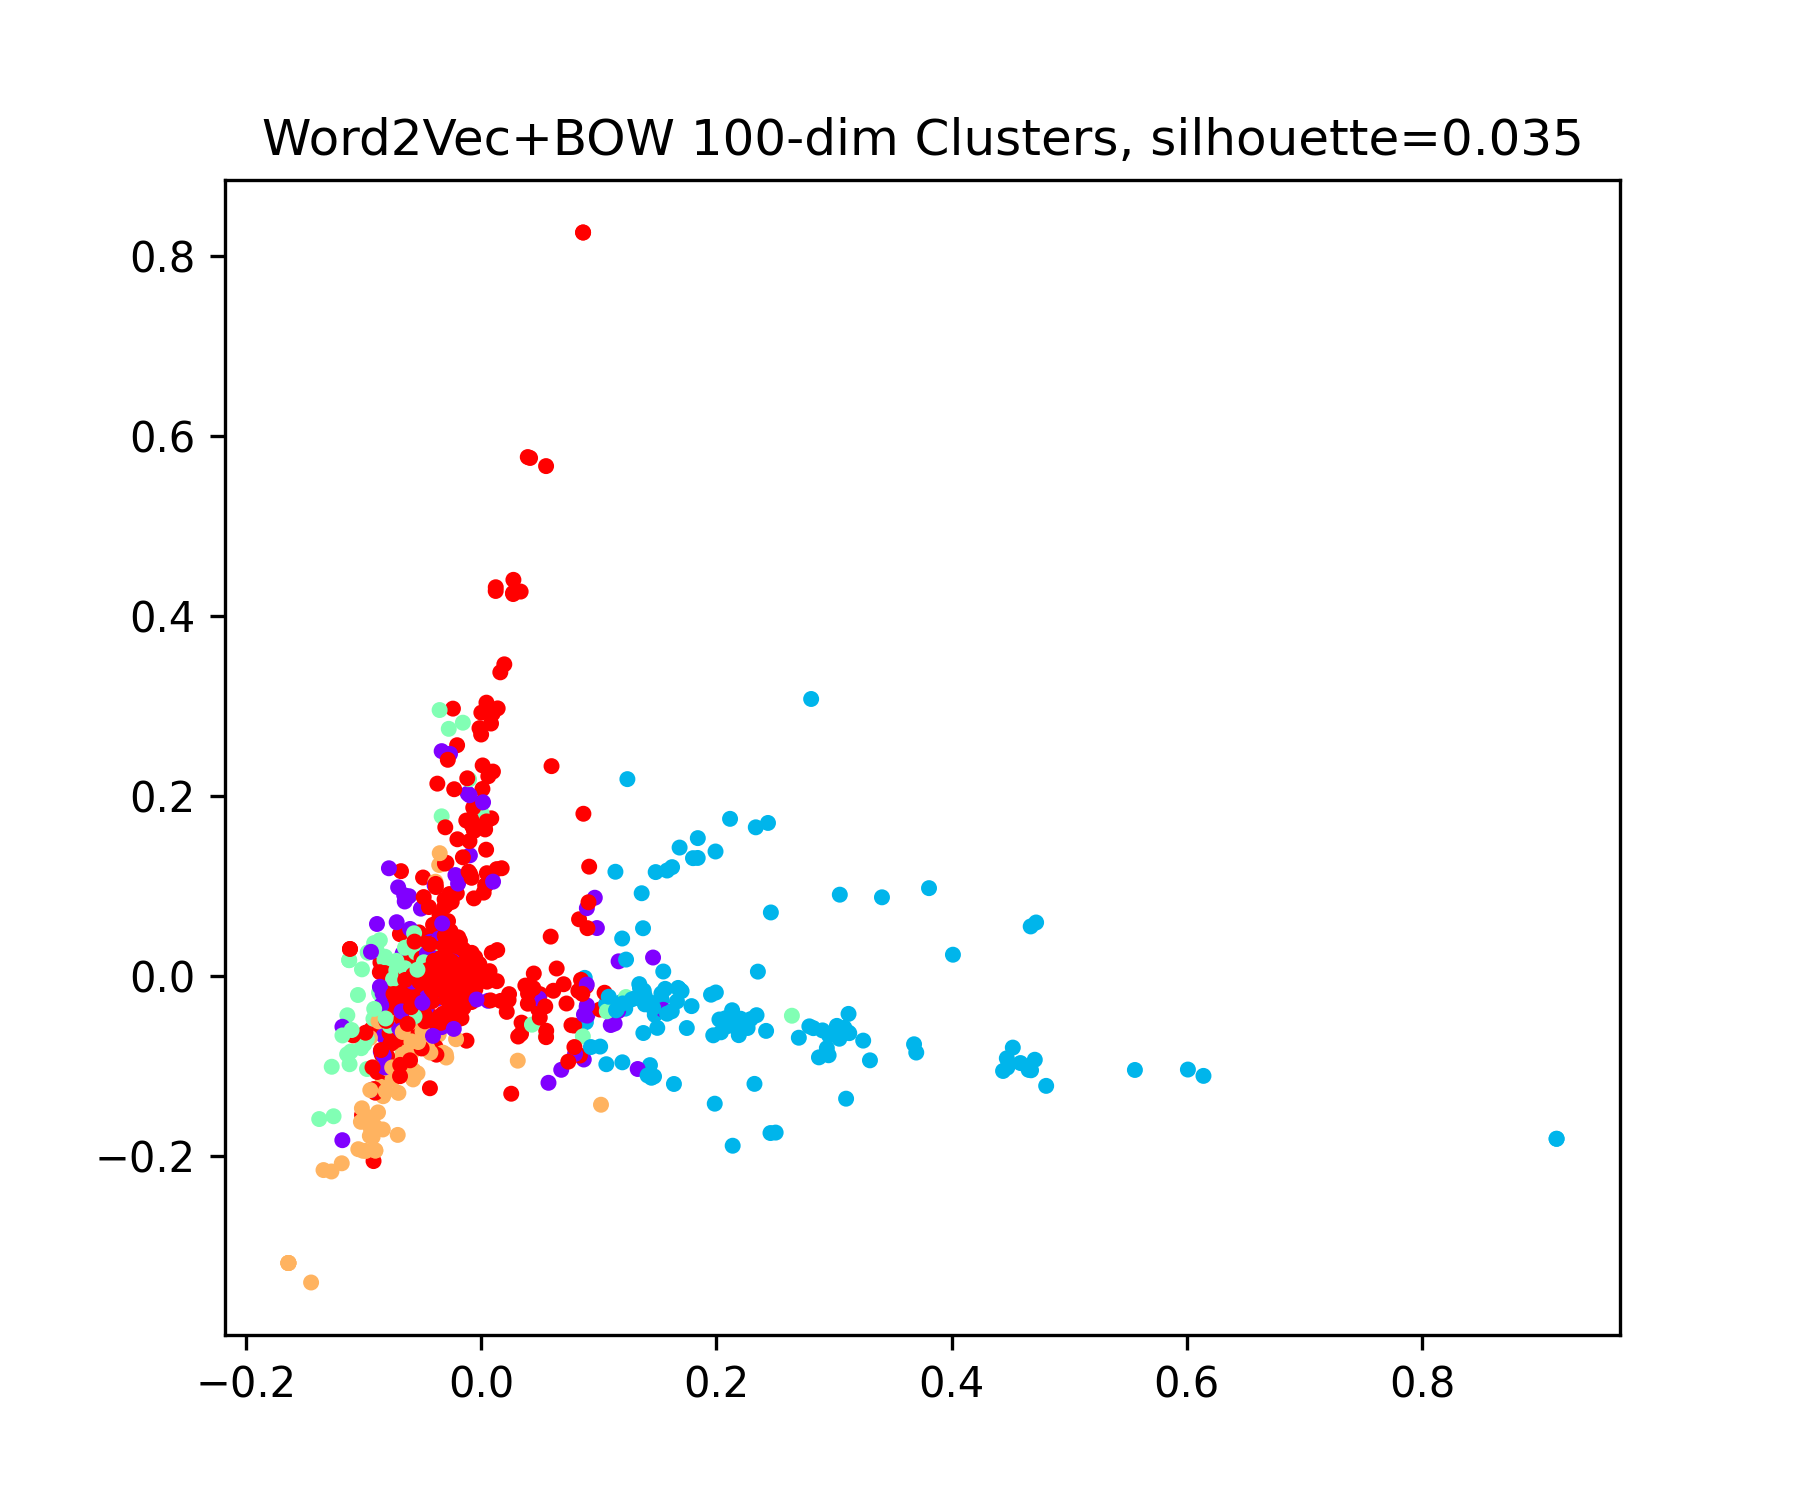
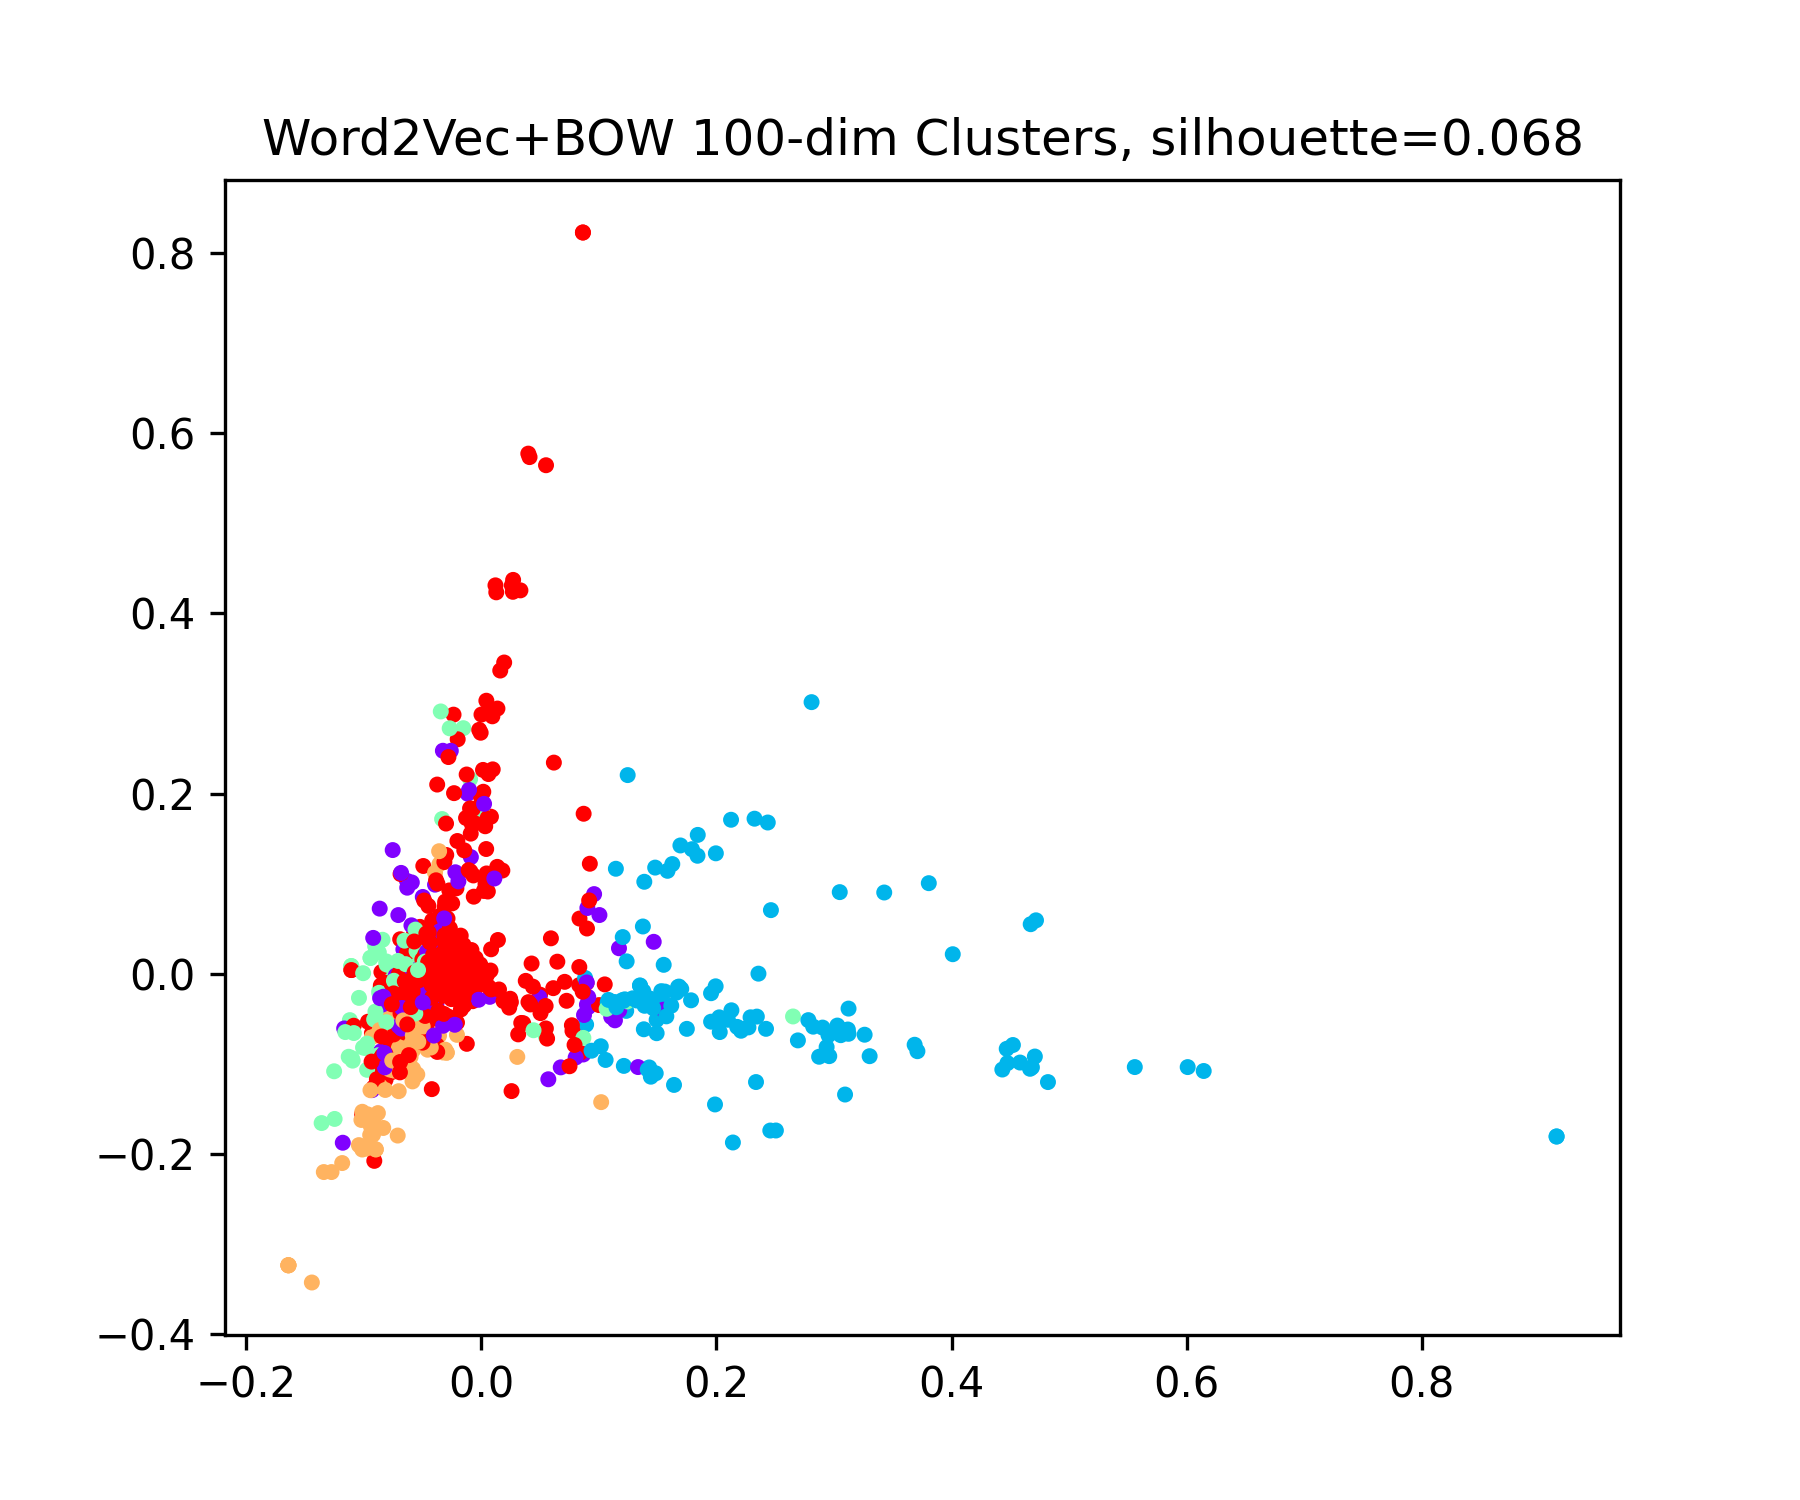
Update word2vec_bow.py add cosine metrics in silhouette score Add new results

diff --git a/word2vec_bow.py b/word2vec_bow.py
@@ -81,7 +81,7 @@ def train_word2vec_bow(data_path, output_dir, dims=[100, 200, 300], n_clusters=5
         # Document-level clustering
         km_doc = KMeans(n_clusters=n_clusters, random_state=42, n_init=10)
         labels = km_doc.fit_predict(vectors)
-        score = silhouette_score(vectors, labels)
+        score = silhouette_score(vectors, labels, metric='cosine')
         results.append({'dimension': dim, 'silhouette': score})
         print(f"dim={dim} | silhouette={score:.4f}")
         
